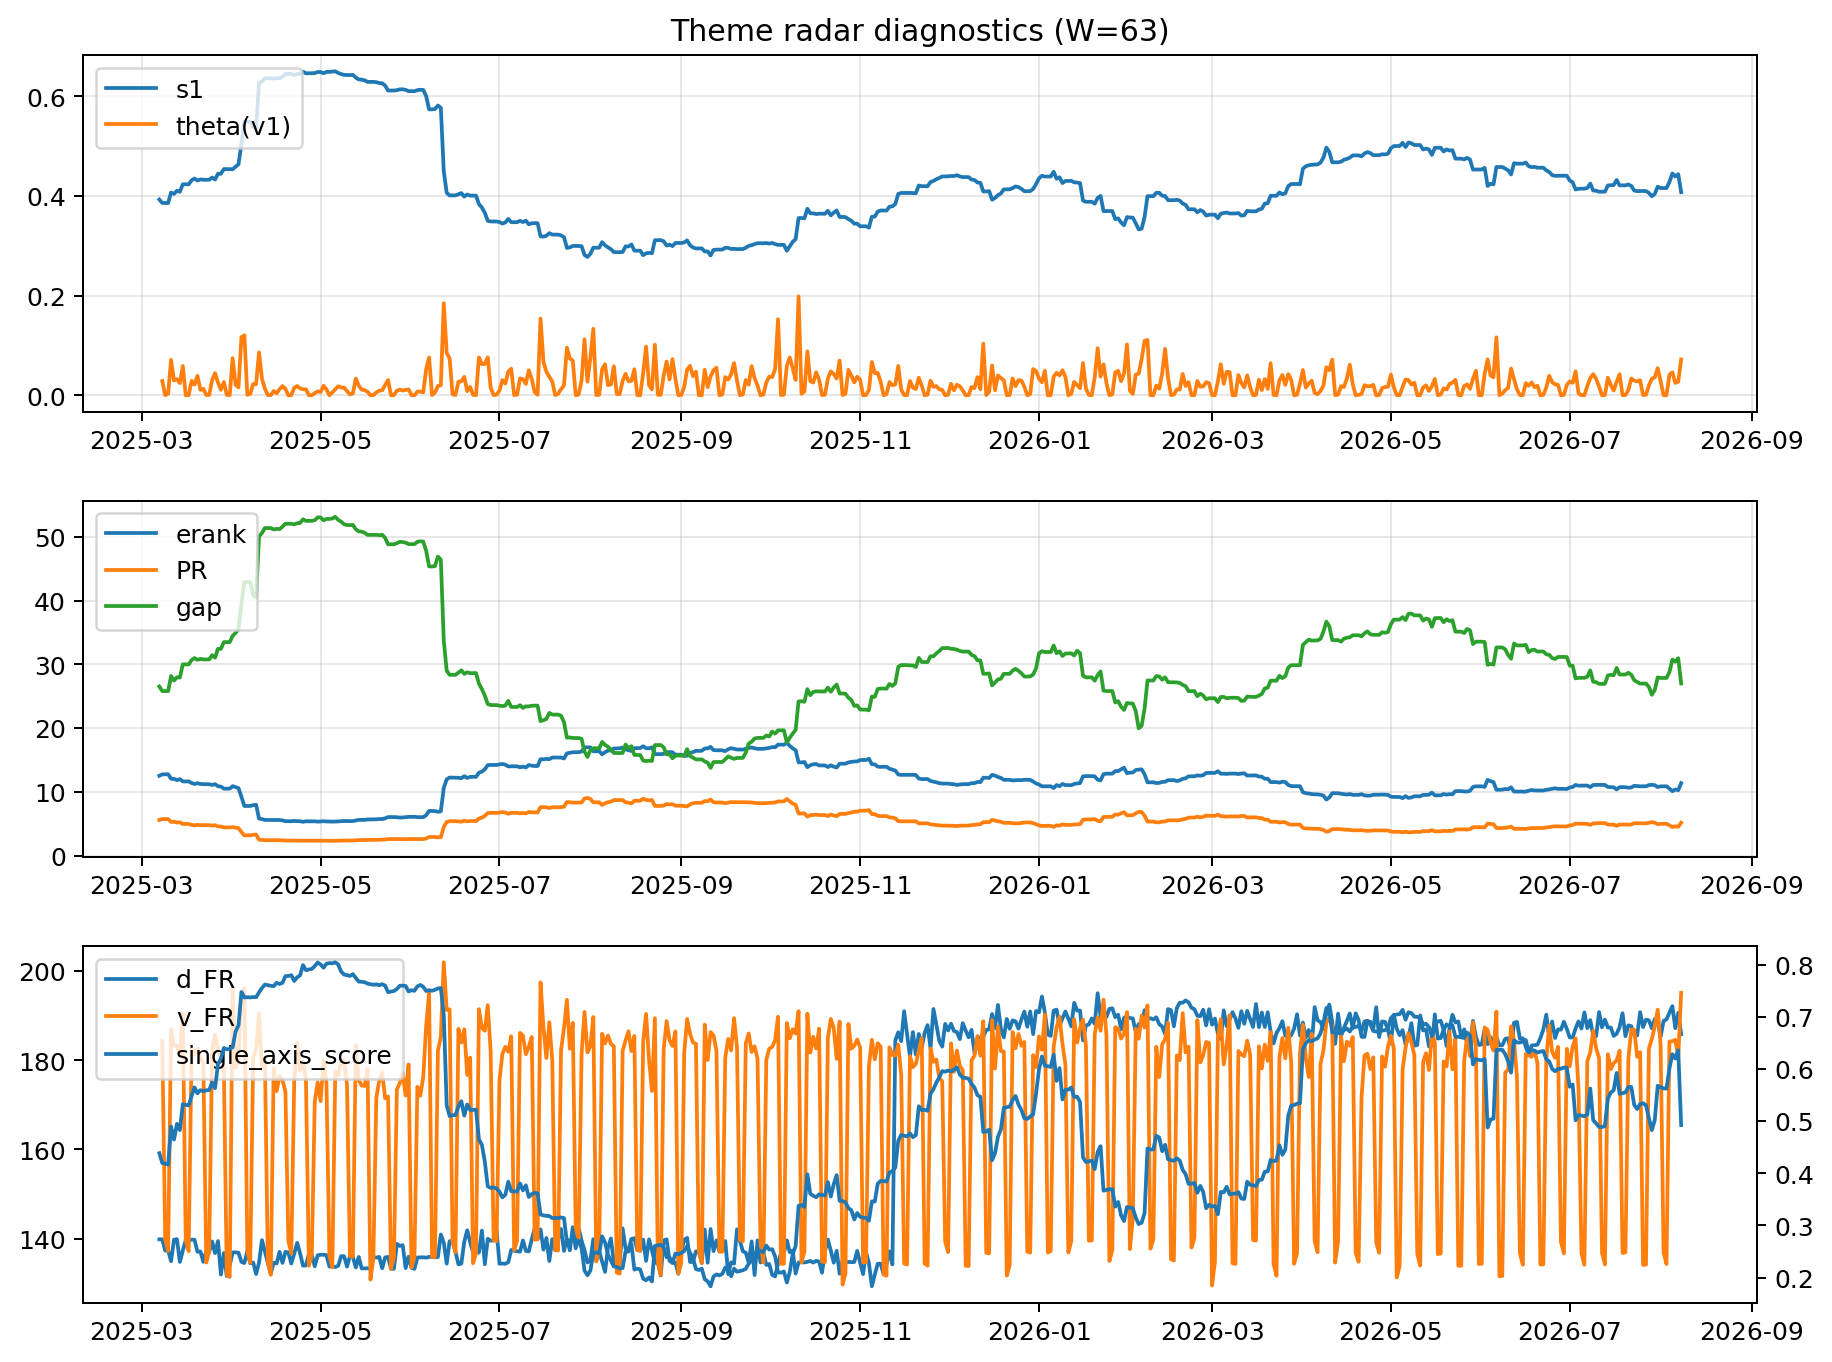
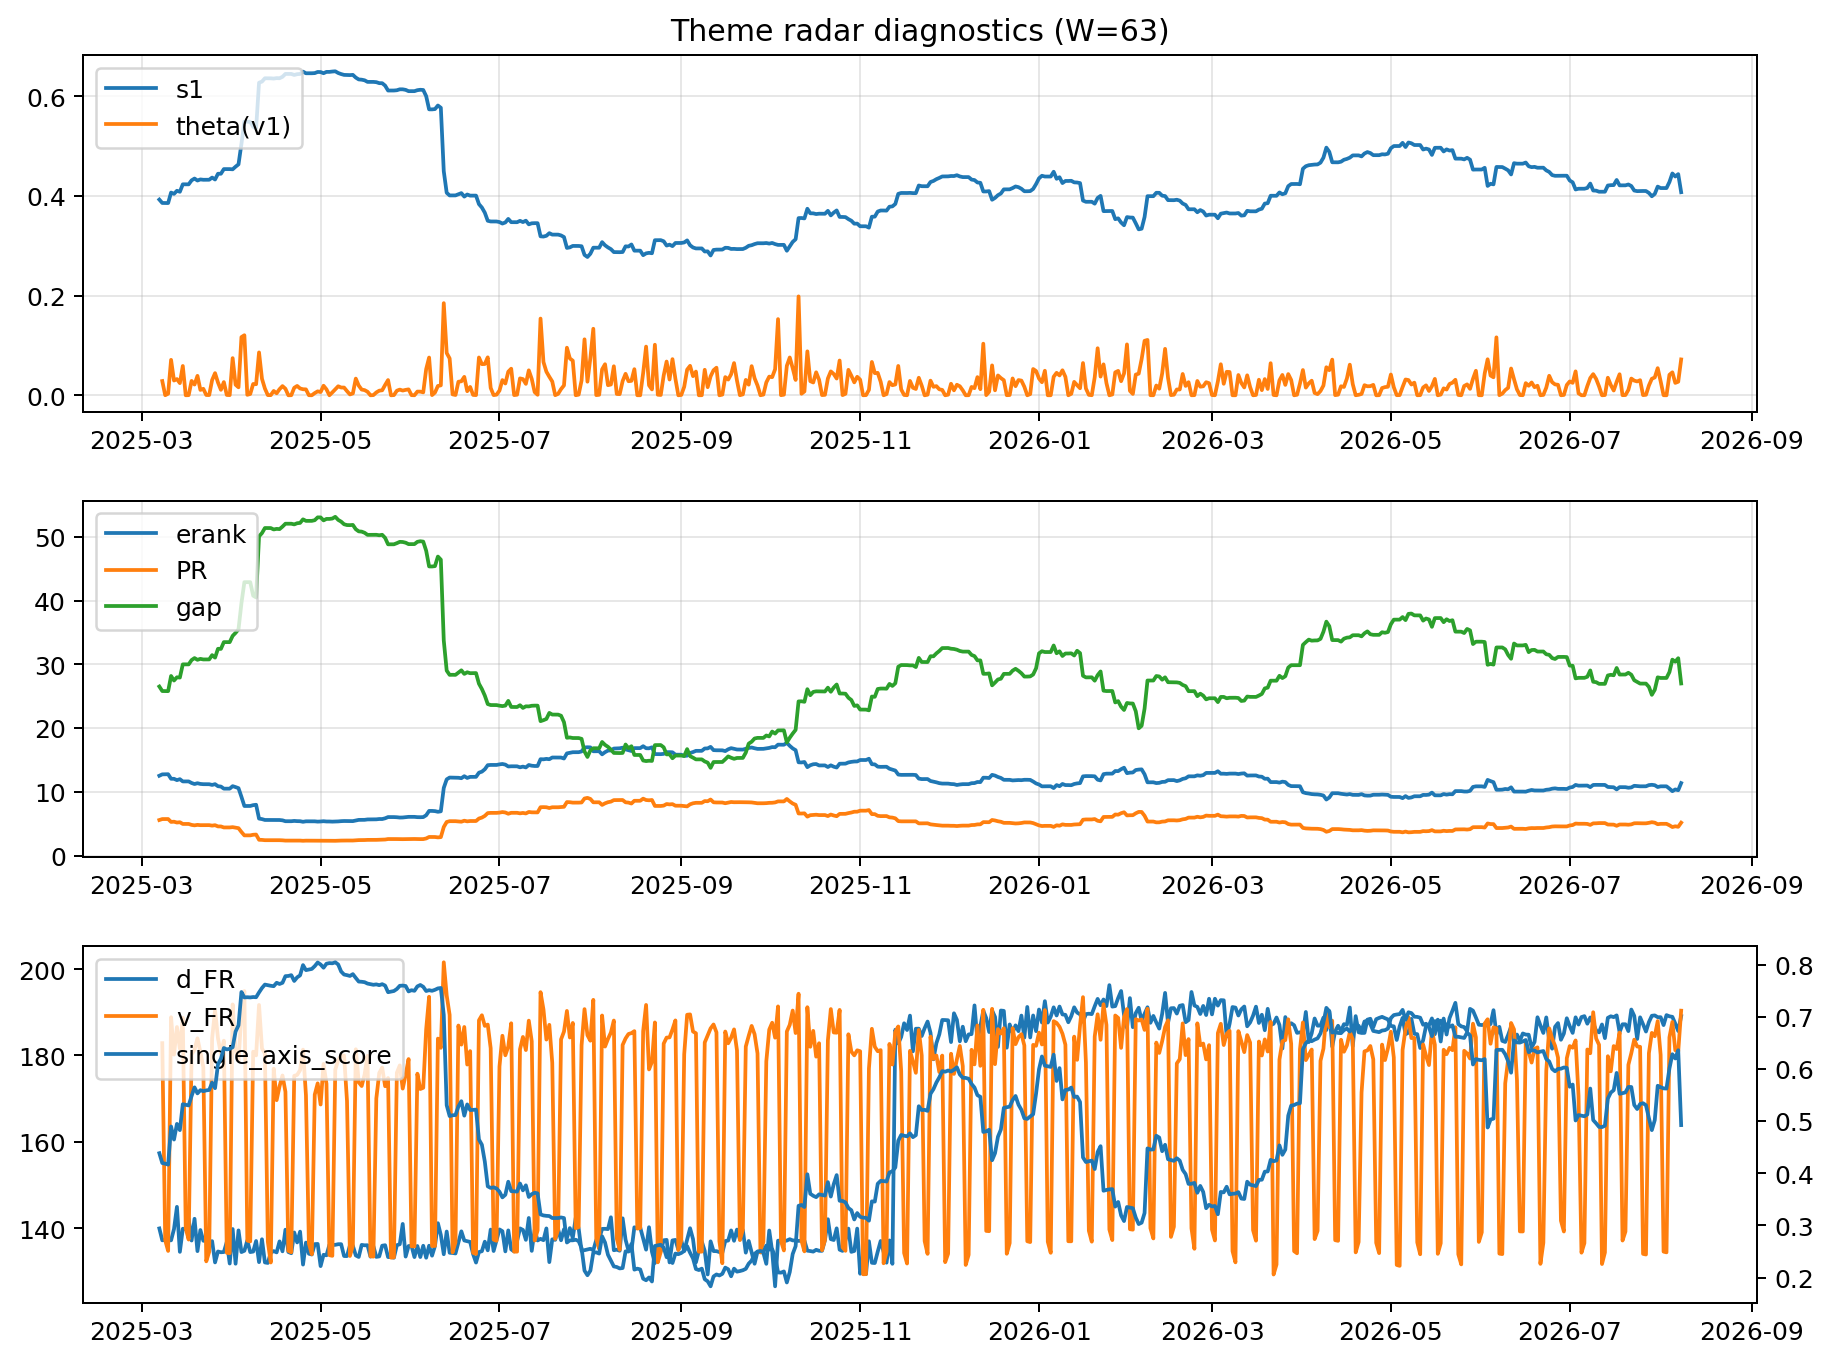
log: 2026-08-08 | sha256:5784163ba3257682078767f5d6b9b65c3d4af6c1d833d8b40b3b26c6aa9cb6f5

diff --git a/logs/2026-08-08.md b/logs/2026-08-08.md
@@ -3,43 +3,43 @@
 ![diagnostic W63](../assets/diagnostic/2026-08-08_W63.png)
 
 ## Leaders (v1) — W=63
-- **Nuclear_Uranium** (0.0888297054656174)
-- Semis (0.0715144742126885)
-- Quantum (0.0578221788328641)
+- **Nuclear_Uranium** (0.0888296902642304)
+- Semis (0.0715144630246375)
+- Quantum (0.0578221683136025)
 
 ## Challengers — W=63
-**v2:** Rates (0.0876459332032682), Semis (0.0841039762192762), Software_Cloud (0.0724169270876066)
-**v3:** Software_Cloud (0.0808926548808377), DataCenter_Infra (0.078647034114585), Space (0.0735306021179927)
+**v2:** Rates (0.0876452347075179), Semis (0.0841040709725564), Software_Cloud (0.0724169994935963)
+**v3:** Software_Cloud (0.0808926192285754), DataCenter_Infra (0.0786470673388673), Space (0.073530613895531)
 
 ## Migration (20D slope) — W=63
 **Top risers:**
-- axis_Quantum: 0.000436121259028
-- axis_Space: 0.0002361108821787
-- axis_Cyber: 0.000212113534162
-- axis_Semis: 0.00018119639058
-- axis_Crypto: 0.0001774765910688
-- axis_Commodities: 0.0001650752993723
-- axis_Nuclear_Uranium: 0.0001484802375206
-- axis_Sector_RealEstate: 0.0001245182412768
-- axis_Drones_Autonomy: 0.0001167207055038
-- axis_Software_Cloud: 0.0001096978957732
+- axis_Quantum: 0.0004361206659023
+- axis_Space: 0.0002361108446721
+- axis_Cyber: 0.0002121130513384
+- axis_Semis: 0.0001811953323406
+- axis_Crypto: 0.0001774763262329
+- axis_Commodities: 0.0001650751694593
+- axis_Nuclear_Uranium: 0.0001484801774797
+- axis_Sector_RealEstate: 0.0001245179058441
+- axis_Drones_Autonomy: 0.0001167209455641
+- axis_Software_Cloud: 0.0001096972193615
 
 **Top fallers:**
-- axis_MegaCap_AI: -7.56914807035493e-05
-- axis_Critical_Minerals: -0.0001192194318169
-- axis_Sector_ConsDisc: -0.000121215380564
-- axis_USD: -0.0001266586637854
-- axis_Miners: -0.000130962057532
-- axis_Credit: -0.0001486762792994
-- axis_Sector_Materials: -0.0001682268628996
-- axis_Sector_Comm: -0.0001743068312626
-- axis_Metals: -0.0002204900225282
-- axis_Rates: -0.0006439568820905
+- axis_MegaCap_AI: -7.569148315545102e-05
+- axis_Critical_Minerals: -0.0001192195194441
+- axis_Sector_ConsDisc: -0.0001212154055714
+- axis_USD: -0.0001266586223269
+- axis_Miners: -0.0001309620620495
+- axis_Credit: -0.0001486756375854
+- axis_Sector_Materials: -0.0001682268308723
+- axis_Sector_Comm: -0.0001743067626715
+- axis_Metals: -0.0002204901625045
+- axis_Rates: -0.0006439514780789
 
 ## Risk line (W=63)
-- s1: 0.4073765449804397
-- theta_v1: 0.0719303455744853
-- v_FR: 195.08962089665133
+- s1: 0.4073766119370764
+- theta_v1: 0.0719302092057295
+- v_FR: 190.37343449454283
 - single_axis_score: 0.4923076923076923
 
 ## Interpretation
@@ -48,7 +48,7 @@
 - Action: Tomorrow watchlist: Quantum, Space, Cyber, Semis, Crypto + v2_top1=Rates
 - Action: Hedge note: v_FR high + theta high → correlation structure unstable; diversify hedges / reduce reliance on static correlations.
 
-- Percentiles (W=63 history): vfr_pct=0.99, theta_pct=0.94, s1_pct=0.47, score_pct=0.46.
+- Percentiles (W=63 history): vfr_pct=0.95, theta_pct=0.94, s1_pct=0.47, score_pct=0.46.
 
 ---
[2 lines of base64/hex data omitted]
